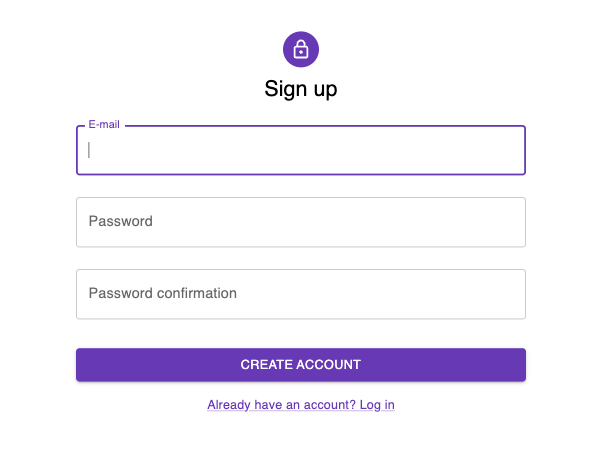
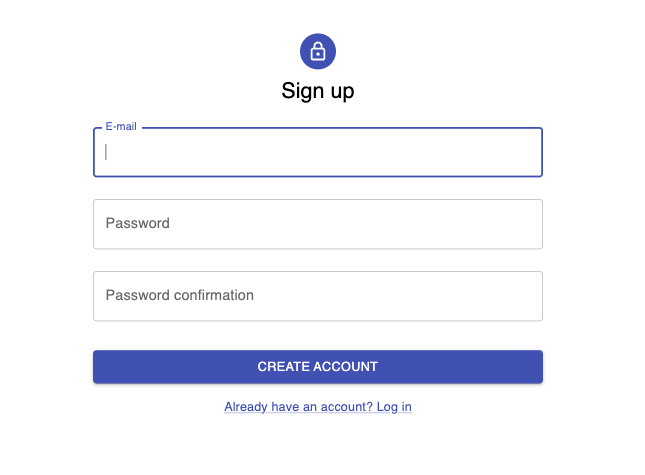
update configs, static images

diff --git a/libs/theme/src/index.ts b/libs/theme/src/index.ts
@@ -1,10 +1,11 @@
-import { deepPurple } from "@mui/material/colors";
+import { indigo } from "@mui/material/colors";
 import { createTheme } from "@mui/material";
 import createCache from "@emotion/cache";
 
 const theme = createTheme({
   palette: {
-    primary: deepPurple,
+    primary: indigo,
+    secondary: indigo,
   },
 });
 

diff --git a/apps/host/config/rsbuild.common.ts b/apps/host/config/rsbuild.common.ts
@@ -6,7 +6,7 @@ const { publicVars } = loadEnv({ prefixes: ['APP_'] });
 export default defineConfig({
   html: {
     template: './public/index.html',
-    crossorigin: 'anonymous',
+    crossorigin: true,
   },
   source: {
     define: publicVars,

diff --git a/apps/marketing/config/rsbuild.common.ts b/apps/marketing/config/rsbuild.common.ts
@@ -6,7 +6,7 @@ const { publicVars } = loadEnv({ prefixes: ['APP_'] });
 export default defineConfig({
   html: {
     template: './public/index.html',
-    crossorigin: 'anonymous',
+    crossorigin: true,
   },
   source: {
     define: publicVars,

diff --git a/apps/auth/rsbuild.config.ts b/apps/auth/rsbuild.config.ts
@@ -15,7 +15,7 @@ export default defineConfig({
   },
   html: {
     template: './public/index.html',
-    crossorigin: 'anonymous',
+    crossorigin: true,
   },
   plugins: [
     pluginReact({

diff --git a/apps/dashboard/rsbuild.config.ts b/apps/dashboard/rsbuild.config.ts
@@ -15,7 +15,7 @@ export default defineConfig({
   },
   html: {
     template: './public/index.html',
-    crossorigin: 'anonymous',
+    crossorigin: true,
   },
   plugins: [
     pluginReact({
